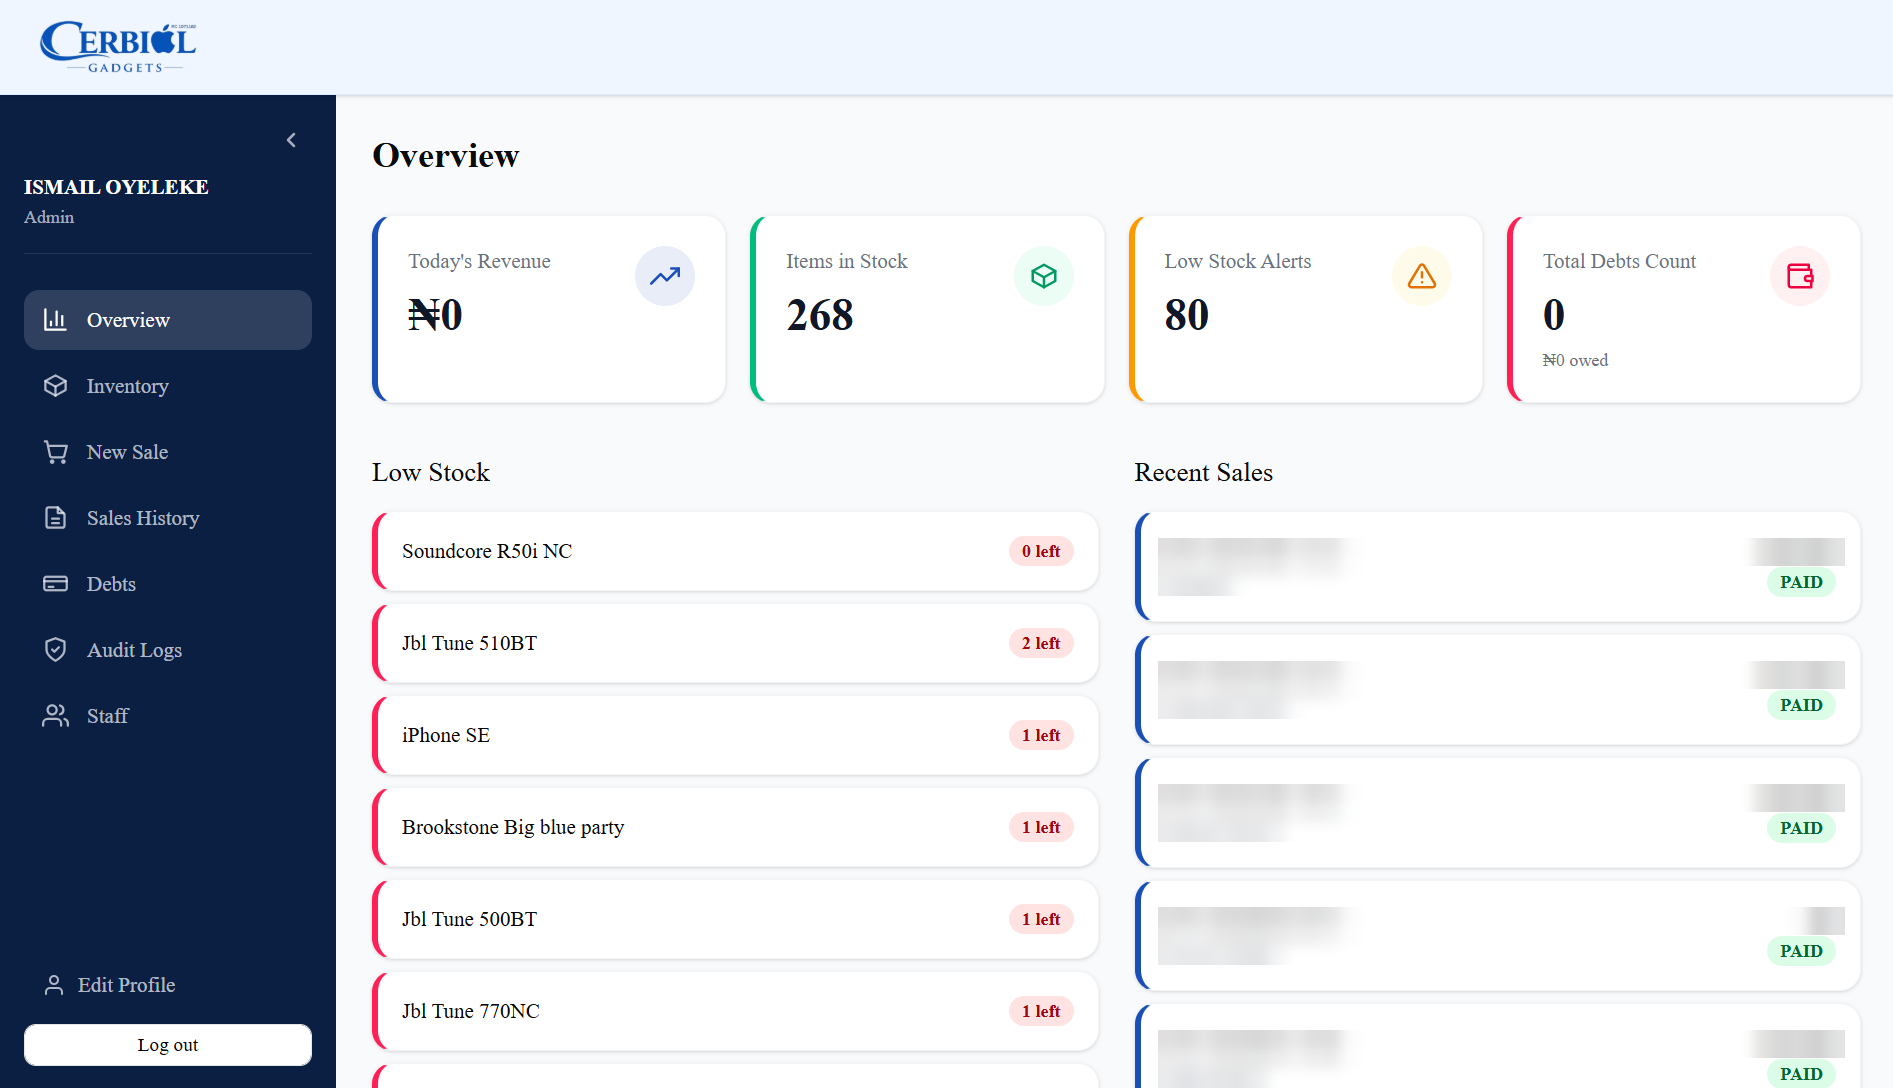
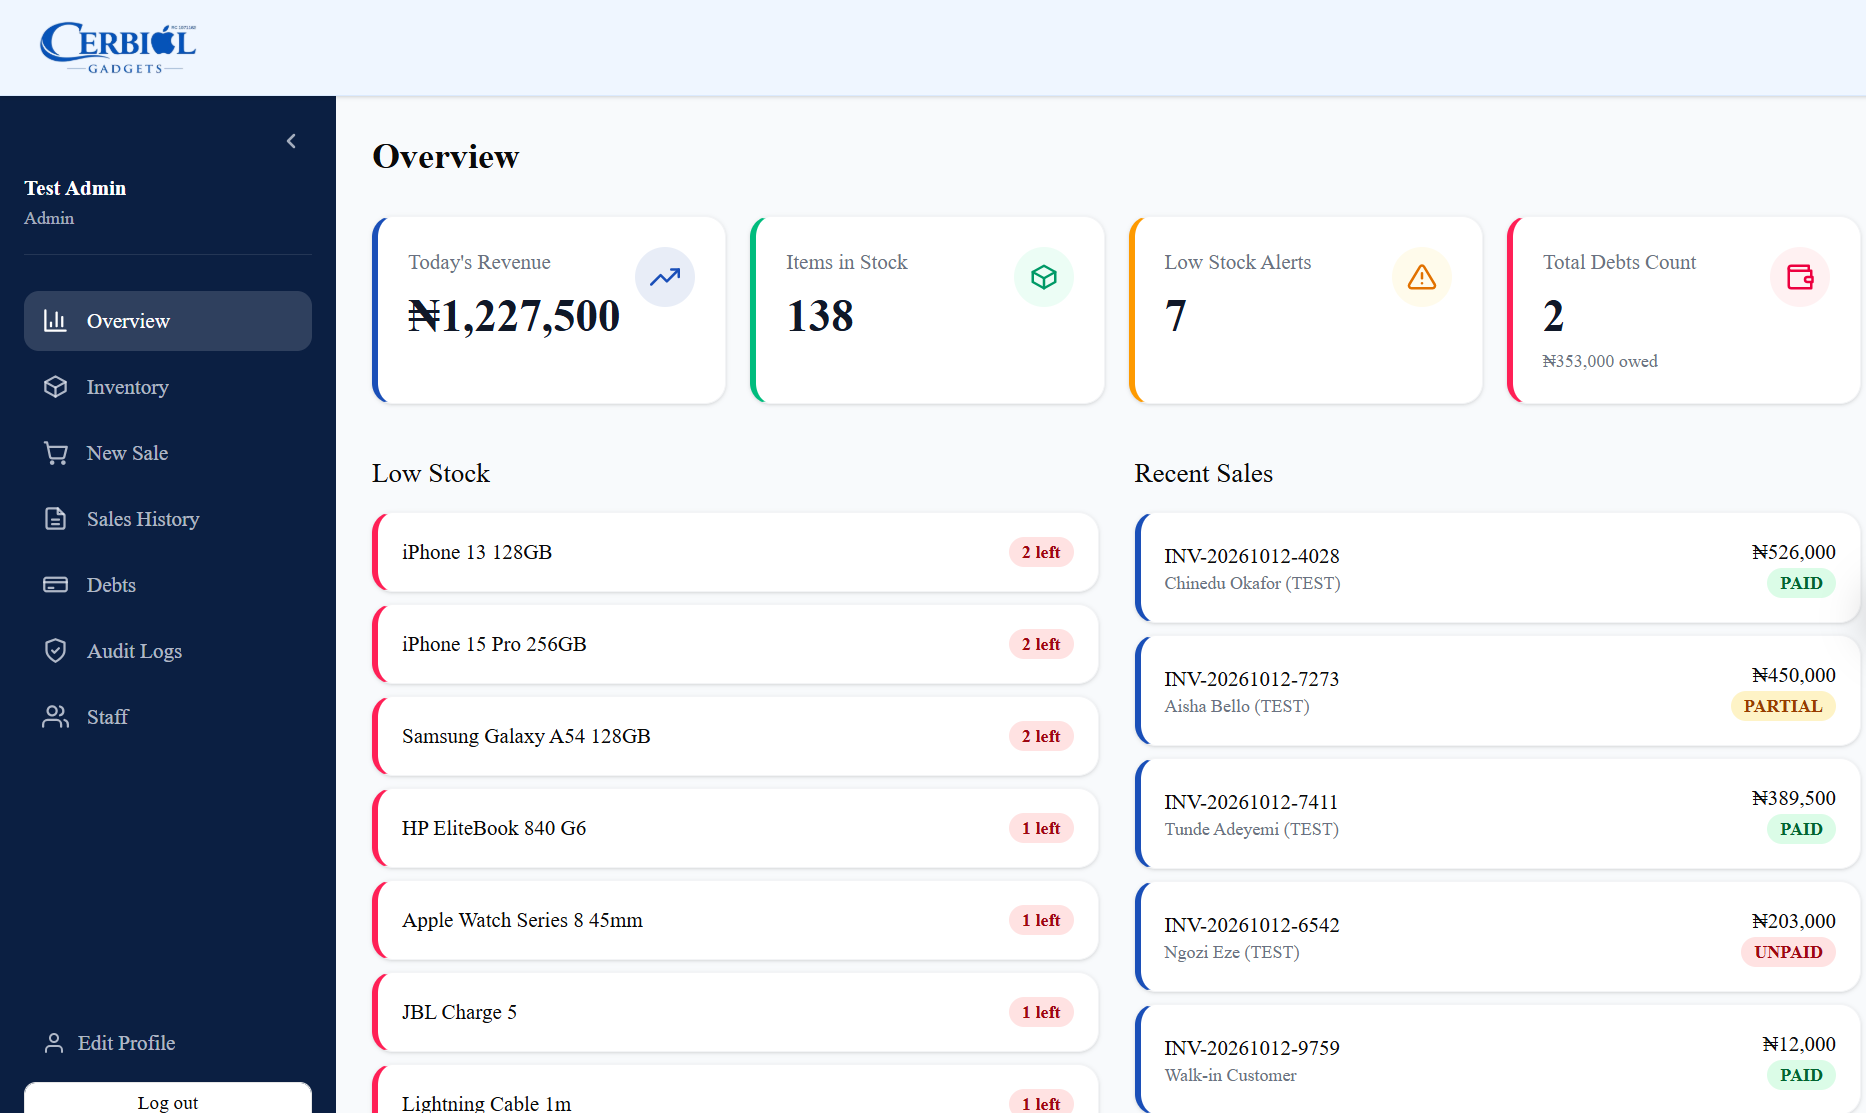
Use the Cerbiol test environment dashboard screenshot, unblurred

diff --git a/src/data/projects.ts b/src/data/projects.ts
@@ -457,12 +457,12 @@ export const projects: Project[] = [
       {
         type: 'image',
         src: 'pos-dashboard.png',
-        alt: 'The point of sale dashboard, with customer names, invoice numbers and amounts blurred',
-        caption: 'Dashboard. Customer names, invoice numbers and amounts are blurred.',
+        alt: 'The point of sale dashboard in the test environment: today\'s revenue, items in stock, low stock alerts, debts owed, a low stock list and recent sales with paid, partial and unpaid status',
+        caption: 'Dashboard, from the test environment. All names and figures are sample data.',
       },
       { type: 'image', src: 'pos-login.png', alt: 'The point of sale sign-in screen' },
     ],
-    note: 'Private client repository. The screenshots are redacted.',
+    note: 'Private client repository. The screenshots come from a separate test environment with sample data.',
   },
 ];
 
